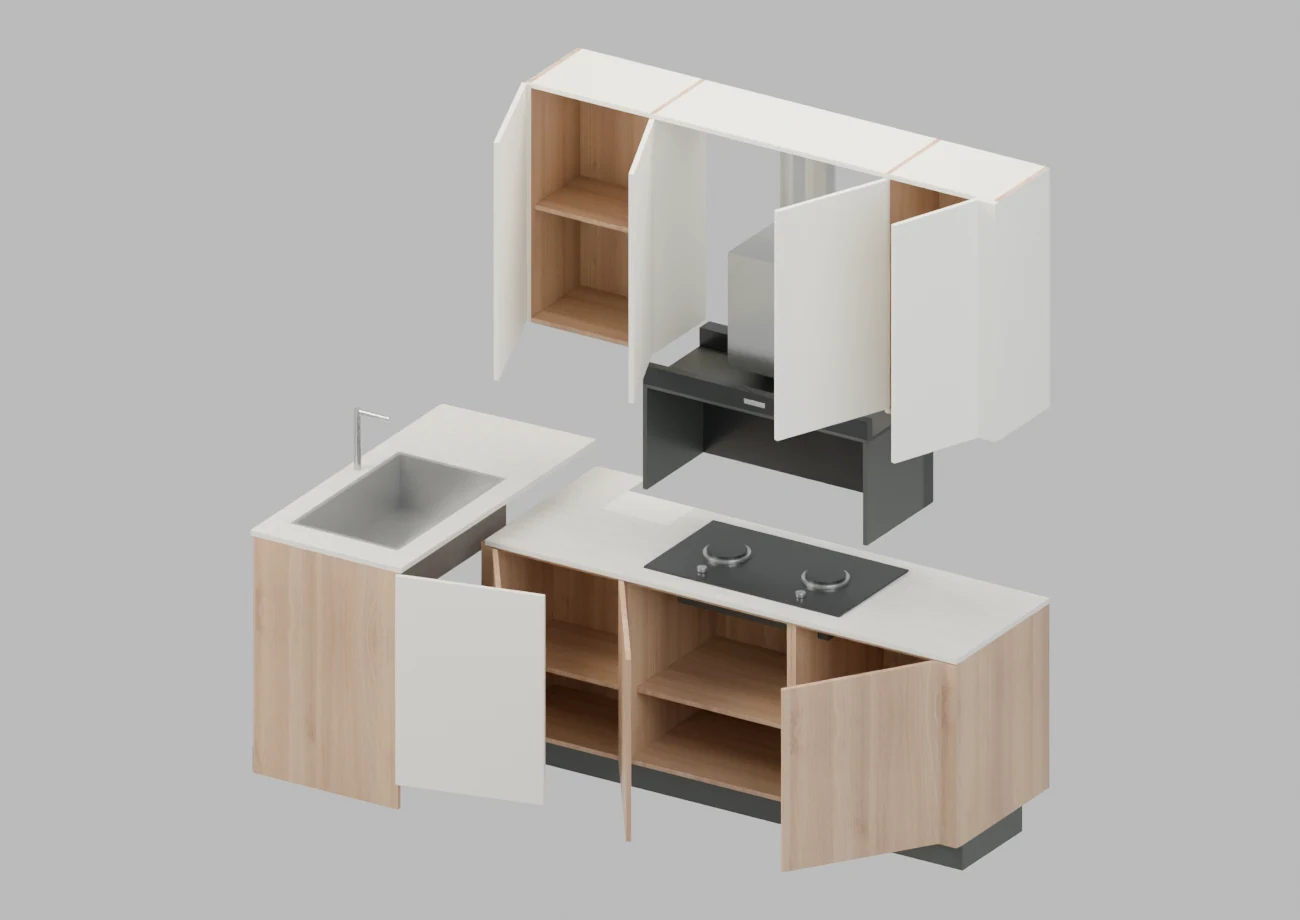
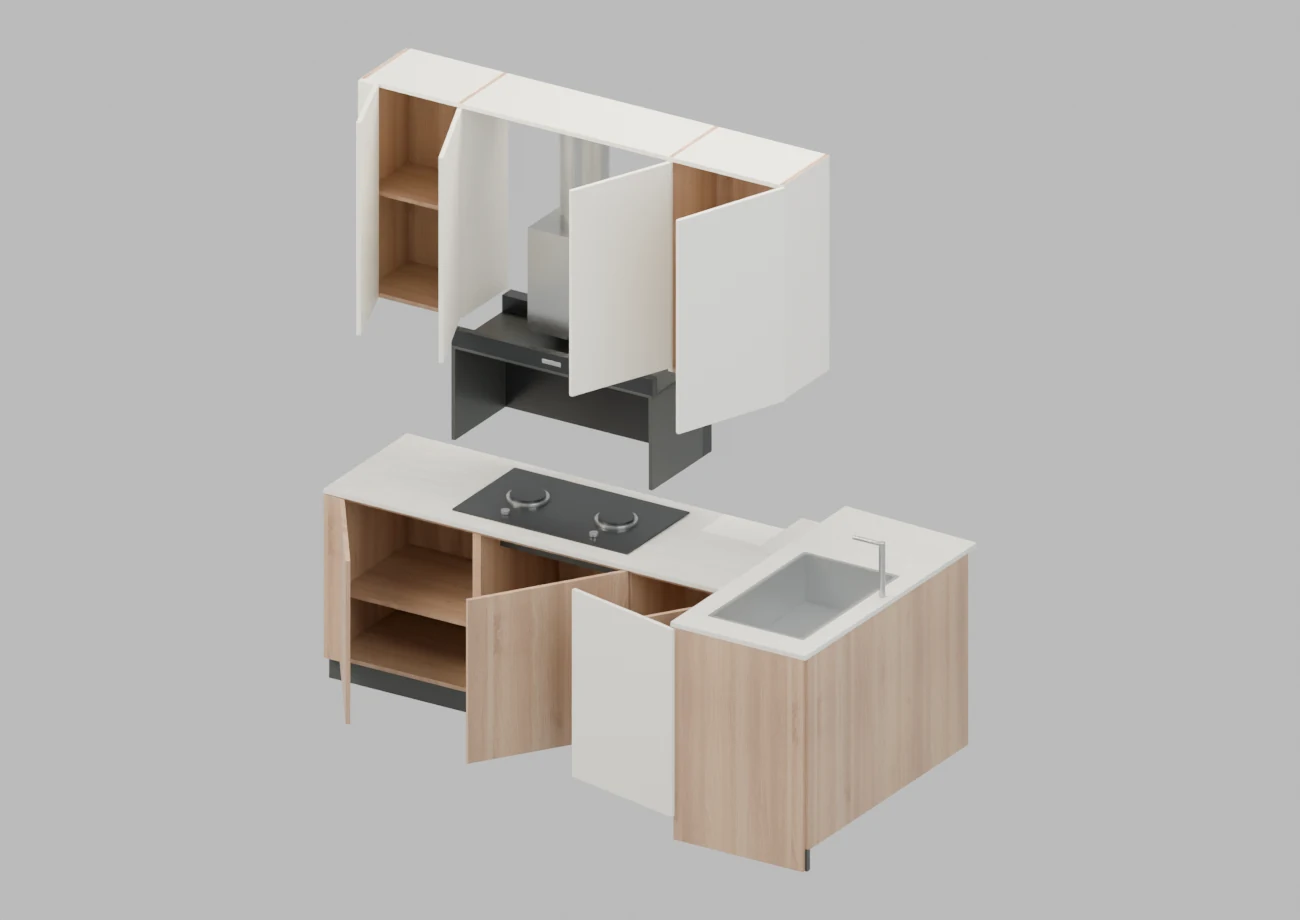
Publish finish studies and verified cabinet proportions and orientation

Changed region(s): [[0.1846, 0.0304, 0.8308, 0.9435]]

diff --git a/cabinet-study/assets/gallery.js b/cabinet-study/assets/gallery.js
@@ -2,18 +2,35 @@
   'use strict';
   const groups=[
     ['entry','玄关','鞋柜与换鞋座','换鞋座下方保留开放鞋位，右侧双门内分层储鞋。石材随手台下设两只薄抽。','1800 × 350 × 2500（含墙段）'],
-    ['media','客餐厅','电视与餐边组合柜','落地矮柜可见面全用南非柚木。中间为透明玻璃展示列；餐边柜以奶油白为主，石材台面上方两扇上翻门用南非柚木。','4300 × 400 × 2500'],
-    ['kitchen','厨房','转角操作柜','水槽台与灶台分高低，转角避开凸出构件。灶下三扇门用南非柚木；吊柜门面及外露封板用奶油白。','2480 × 1265 × 2400（转角外包）'],
-    ['tower','厨房','电器塔与冰箱排','以高柜替换原低返台，洗碗机和微蒸烤独立承托。现场若与门轨相碰，或必须与鞋柜齐端，则不采用这版。','1340 × 648 × 2500（组合占位）'],
+    ['media','客餐厅','电视与餐边组合柜','电视区 2350，展示与餐边共 1950。右端上、中、下三层都收圆；下层沿用 R50，上、中层暂按 R50。主吊柜深 350、中层上翻深 300、下柜深 400 mm。','4300 × 400 × 2500'],
+    ['kitchen','厨房','转角操作柜','从操作区正对烟机，水盆在右侧。水槽台高于灶台，转角避柱；灶下三扇木门，吊柜及外露封板奶油白。','2480 × 1265 × 2400（转角外包）'],
+    ['tower','厨房','电器塔与冰箱排','以高柜替换原低返台；从操作区正对烟机，电器高柜排在左、水盆在右。若与门轨相碰或必须与鞋柜齐端，则不采用这版。','1340 × 648 × 2500（组合占位）'],
     ['arch','过道','拱形展示柜','仅在原框确认可用时放置，不拆墙叠柜。右侧木抽外露，上下玻璃门分别开启。','1240 × 220 × 2500'],
     ['utility','过道','三门杂物柜','原框与墙垛重合，须先确认有可用净空且不挡房门；否则另选柜位。左侧放长物，右侧分六格。','820 × 245 × 2500'],
     ['wardrobe','主卧','双列衣柜','左列长挂配两只独立底抽；右列短挂、叠放和底仓分开，顶柜收纳换季物品。','1750 × 600 × 2500'],
     ['vanity','卫浴','双抽洗面盆柜','两只抽面沿已选效果试用南非柚木，上抽避让排水。抽屉拉出会进入卫生间房门的开启范围，两者应错时开启。','800 × 500 × 850'],
     ['laundry','家政阳台','高低家政柜','机器上方留低位开放格，盆上柜抬高后退。整柜依现场窗扇、柱位、管卡和机器进排水复尺后确定。','1150 × 900 × 2500']
   ];
-  const caps={hero:'外观效果',axo:'轴测视图',open:'柜门与抽屉开启',model:'三维结构示意'};
+  const caps={hero:'空间日景',night:'空间夜景',axo:'柜体轴测',open:'柜门与抽屉开启',model:'互动三维模型'};
+  const boards={
+    entry:'奶油白门抽；南非柚木柜内、洞洞板及换鞋坐面，随手台为石材。',
+    media:'电视矮柜可见面及餐边两扇上翻门用南非柚木；餐边其余门抽奶油白，展示列上玻璃、下木门。',
+    kitchen:'灶下三门用南非柚木；吊柜门面、外露封板及盆下检修门奶油白。柜内木纹，台面石材。',
+    tower:'塔柜门抽与顶柜外露封面奶油白；箱体内侧、承托层板南非柚木。电器外观为占位。',
+    arch:'拱框、背面和封闭区门内外奶油白，层板及外露双抽南非柚木；上下玻璃分开。',
+    utility:'三扇门内外及外露封板奶油白，柜内与分层板南非柚木。',
+    wardrobe:'门板、双底抽面奶油白；柜内、层板及可见木纹为南非柚木。',
+    vanity:'双抽面沿已选效果试用南非柚木，台面石材、盆体白色。',
+    laundry:'高柜与检修门奶油白，低开放格与柜内南非柚木，清洗台为石材。'
+  };
+  const finish=id=>{
+    const wet=id==='vanity', kitchen=id==='kitchen'||id==='tower', outside=id==='laundry';
+    return {wall:wet||kitchen?'奶芙米墙砖 · 750 × 1500 mm':outside?'中性参照面，阳台墙面做法未定':'菱花白乳胶漆 · OW025-4',
+      floor:wet?'奶芙米地砖 · 750 × 1500 mm':'蜜杏木纹砖 · 600 × 1200 mm',
+      phrase:wet?'奶芙米墙地与木色双抽':kitchen?'奶芙米墙砖与蜜杏木纹地砖':outside?'蜜杏木纹地砖与家政柜':'菱花白墙与蜜杏木纹地砖'};
+  };
   const $=s=>document.querySelector(s), choose=$('#choose'), photo=$('#photo'), host=$('#model'), stat=$('#status');
-  let id='media',mode='hero',open=false,serial=0,activeViewer=null,moduleReady;
+  let id='media',mode='hero',open=false,withRoom=true,serial=0,activeViewer=null,moduleReady;
   groups.forEach(([key,,name],i)=>{
     const b=document.createElement('button'); b.type='button'; b.dataset.id=key;
     const n=document.createElement('span'); n.textContent=String(i+1).padStart(2,'0');
@@ -24,7 +41,7 @@
   const setStatus=(s='')=>{stat.textContent=s;stat.hidden=!s};
   function loadScript(url){return new Promise((ok,fail)=>{const s=document.createElement('script');s.src=url;s.onload=ok;s.onerror=()=>fail(Error('加载失败'));document.head.appendChild(s)})}
   function prepareViewer(){
-    if(!moduleReady)moduleReady=loadScript('assets/three.min.js').then(()=>loadScript('assets/OrbitControls.js')).then(()=>import('./viewer.mjs')).catch(e=>{moduleReady=null;throw e});
+    if(!moduleReady)moduleReady=loadScript('assets/three.min.js').then(()=>loadScript('assets/OrbitControls.js')).then(()=>import('./viewer.mjs?v=4')).catch(e=>{moduleReady=null;throw e});
     return moduleReady;
   }
   const models=new Map();
@@ -32,28 +49,31 @@
     host.hidden=false;photo.hidden=true;$('#tools').hidden=false;
     setStatus('正在加载三维模型…');
     try {
-      const [lib,data]=await Promise.all([prepareViewer(),models.get(id)||fetch('assets/'+id+'.json').then(r=>{if(!r.ok)throw Error();return r.json()})]);
+      const [lib,data]=await Promise.all([prepareViewer(),models.get(id)||fetch('assets/'+id+'.json'+(['media','kitchen'].includes(id)?'?v=4':'')).then(r=>{if(!r.ok)throw Error();return r.json()})]);
       if(ticket!==serial)return;
       models.set(id,data);
       if(!activeViewer)activeViewer=lib.viewer(host.querySelector('canvas'));
-      activeViewer.show(data,open);setStatus();$('#tools').hidden=false;
+      activeViewer.show(data,open,id,withRoom);setStatus();$('#tools').hidden=false;
     } catch(e) {
       if(ticket!==serial)return;
-      host.hidden=true;photo.src='assets/'+id+'-axo.webp';photo.alt='三维加载失败，显示该柜轴测图';photo.hidden=false;$('#tools').hidden=true;
+      host.hidden=true;photo.src='assets/'+id+'-axo.webp?v=4';photo.alt='三维加载失败，显示该柜轴测图';photo.hidden=false;$('#tools').hidden=true;
       setStatus('此设备暂时不能显示三维模型，已改为轴测图。');
     }
   }
   function update(){
     const g=groups.find(x=>x[0]===id),ticket=++serial;
-    choose.value=id;$('#zone').textContent=g[1];$('#title').textContent=g[2];$('#detail').textContent=g[3];$('#dim').textContent=g[4];
+    const finishes=finish(id);
+    choose.value=id;$('#zone').textContent=g[1];$('#title').textContent=g[2];$('#detail').textContent=g[3];$('#dim').textContent=g[4];$('#mediaWidths').hidden=id!=='media';
+    $('#wallFinish').textContent=finishes.wall;$('#floorFinish').textContent=finishes.floor;$('#boardFinish').textContent=boards[id];
+    $('#room').textContent=withRoom?'隐藏墙地':'显示墙地';$('#room').setAttribute('aria-pressed',String(withRoom));
     $('#counter').textContent=String(groups.indexOf(g)+1).padStart(2,'0')+' / 09';
     document.querySelectorAll('[data-id]').forEach(b=>b.setAttribute('aria-current',b.dataset.id===id?'true':'false'));
     document.querySelectorAll('[data-mode]').forEach(b=>b.setAttribute('aria-pressed',String(b.dataset.mode===mode)));
-    $('#caption').textContent=g[2]+' / '+caps[mode];$('#original').hidden=mode==='model';$('#tools').hidden=mode!=='model';
+    $('#caption').textContent=g[2]+' / '+caps[mode]+(['hero','night'].includes(mode)?'：'+finishes.phrase:'')+(mode==='night'?'（与日景同机位）':'');$('#original').hidden=mode==='model';$('#tools').hidden=mode!=='model';
     $('#toggle').setAttribute('aria-pressed',String(open));$('#toggle').textContent=open?'关闭柜门':'打开柜门';
     host.hidden=mode!=='model';photo.hidden=mode==='model';
     if(mode==='model'){showModel(ticket);return}
-    setStatus();const file='assets/'+id+'-'+mode+'.webp';$('#original').href=file;photo.alt=g[2]+'的'+caps[mode];
+    setStatus();const file='assets/'+id+'-'+mode+'.webp'+(['media','kitchen'].includes(id)||mode==='hero'||mode==='night'?'?v=4':'');$('#original').href=file;photo.alt=$('#caption').textContent;
     photo.onerror=()=>{if(ticket===serial)setStatus('图片加载失败，请重试或切换其他视图。')};photo.src=file;
   }
   function go(key,view){
@@ -67,8 +87,10 @@
     if(id!==next||mode!==nextMode)open=false;id=next;mode=nextMode;update();
   }
   choose.onchange=()=>go(choose.value,mode);
+  $('#roundDetail').ontoggle=()=>{if($('#roundDetail').open&&!$('#roundPhoto').getAttribute('src'))$('#roundPhoto').src='assets/media-right.webp?v=4'};
   document.querySelectorAll('[data-mode]').forEach(b=>b.onclick=()=>go(id,b.dataset.mode));
   $('#toggle').onclick=()=>{if(!activeViewer||!models.has(id))return;open=!open;activeViewer.state(open);$('#toggle').setAttribute('aria-pressed',String(open));$('#toggle').textContent=open?'关闭柜门':'打开柜门';$('#caption').textContent=$('#title').textContent+' / '+(open?'开启模型':'闭合模型')};
-  $('#left').onclick=()=>activeViewer?.rotate(-.25,0);$('#right').onclick=()=>activeViewer?.rotate(.25,0);$('#reset').onclick=()=>activeViewer?.reset();
+  $('#room').onclick=()=>{if(!activeViewer||!models.has(id))return;withRoom=!withRoom;activeViewer.background(withRoom);$('#room').textContent=withRoom?'隐藏墙地':'显示墙地';$('#room').setAttribute('aria-pressed',String(withRoom))};
+  $('#front').onclick=()=>activeViewer?.front();$('#left').onclick=()=>activeViewer?.rotate(-.25,0);$('#right').onclick=()=>activeViewer?.rotate(.25,0);$('#reset').onclick=()=>activeViewer?.reset();
   window.addEventListener('hashchange',fromHash);fromHash();
 })();

diff --git a/cabinet-study/assets/gallery.css b/cabinet-study/assets/gallery.css
@@ -2,3 +2,7 @@
 @media(prefers-color-scheme:dark){:root{--bg:#1e2420;--fg:#f1f2e9;--muted:#c1c8bd;--line:#505950;--sel:#344839;--accent:#c0d6bd;--panel:#272f29;--stage:#3a4139}}
 *{box-sizing:border-box}body{margin:0;background:var(--bg);color:var(--fg)}.mast,main,footer{width:min(1440px,calc(100% - clamp(28px,7vw,112px)));margin-inline:auto}button,select{font:inherit;color:inherit}.mast{display:flex;align-items:baseline;justify-content:space-between;padding:24px 0 19px;border-bottom:2px solid var(--fg)}.mast h1{font-size:clamp(21px,2.2vw,33px);margin:0;letter-spacing:.04em}.mast span,.location,#counter,figcaption,footer,#tools span{color:var(--muted);font-size:13px;font-variant-numeric:tabular-nums}main{display:grid;grid-template-columns:minmax(172px,21%) minmax(0,1fr);gap:clamp(22px,4vw,68px);padding:32px 0 24px}.mobile{display:none}aside h2,h3{font-size:13px;letter-spacing:.06em;color:var(--muted);margin:5px 0 16px}aside button{display:flex;width:100%;gap:12px;align-items:center;border:0;border-left:3px solid transparent;padding:10px 8px;min-height:47px;background:none;text-align:left;cursor:pointer}aside button strong{font-size:15px;font-weight:510}aside button span{font-size:12px;color:var(--muted);font-variant-numeric:tabular-nums}button[aria-pressed=true],aside button[aria-current=true]{background:var(--sel);color:var(--accent)}aside button[aria-current=true]{border-left-color:var(--accent)}.head{display:flex;justify-content:space-between;align-items:end;gap:8px}.location{margin:0 0 6px}.head h2{font-size:clamp(24px,2.8vw,40px);line-height:1.25;margin:0;font-weight:640;letter-spacing:-.035em}#counter{white-space:nowrap;padding-bottom:4px}.modes,.model-buttons{display:flex;gap:5px;flex-wrap:wrap}.modes{margin:18px 0 10px}.modes button,#tools button{min-height:44px;padding:7px 16px;border:1px solid transparent;background:none;cursor:pointer;font-size:14px}.modes button[aria-pressed=true],#tools button[aria-pressed=true]{background:var(--sel);color:var(--accent);box-shadow:inset 0 -2px var(--accent)}button:hover{background:var(--panel)}button:active{opacity:.8}figure{margin:0}.stage{position:relative;aspect-ratio:1300/920;background:var(--stage);overflow:hidden;isolation:isolate}.stage img,#model,#model canvas{width:100%;height:100%;display:block}.stage img{object-fit:contain}.stage #model[hidden],[hidden]{display:none!important}#model{position:absolute;inset:0;background:var(--stage)}#model canvas{touch-action:none}#status{position:absolute;inset:auto 0 0;margin:0;padding:12px;text-align:center;background:var(--bg);color:var(--fg);font-size:14px}#tools{display:flex;align-items:center;gap:8px 14px;justify-content:space-between;flex-wrap:wrap;margin-top:8px}#tools button{border-color:var(--line);padding-inline:11px}figcaption{display:flex;justify-content:space-between;align-items:center;gap:12px;padding:3px 0 9px;min-height:44px;border-bottom:1px solid var(--line)}a{color:var(--accent)}figcaption a{display:inline-flex;align-items:center;min-height:44px;text-decoration:underline;text-underline-offset:3px}.details{display:grid;grid-template-columns:1.7fr 1fr;gap:24px;padding-top:20px}.details h3{margin:0 0 7px}.details p{margin:0;line-height:1.65;font-size:16px}#dim{font-variant-numeric:tabular-nums}footer{border-top:1px solid var(--line);padding:17px 0 27px;line-height:1.6}.skip{position:absolute;top:0;left:-500px;padding:12px;background:var(--bg);z-index:2}.skip:focus{left:5px}button:focus-visible,a:focus-visible,select:focus-visible,canvas:focus-visible{outline:3px solid var(--accent);outline-offset:2px}article:focus:not(:focus-visible){outline:0}
 @media(max-width:767px){main{display:block;padding:15px 0 19px}.mast{padding:16px 0 12px}.mobile{display:block}aside h2,aside nav{display:none}aside{display:flex;gap:12px;align-items:center;margin-bottom:19px}aside label{font-size:13px;color:var(--muted)}select{min-height:44px;border:1px solid var(--line);border-radius:0;background:var(--panel);padding:5px 30px 5px 10px;flex:1;min-width:0}.head h2{font-size:clamp(22px,6vw,31px)}.modes{margin:11px 0 8px;display:grid;grid-template-columns:repeat(4,minmax(0,1fr));gap:0}.modes button{padding-inline:2px;white-space:nowrap}.details{grid-template-columns:1fr;gap:13px;padding-top:14px}.details p{font-size:15px}#tools span{font-size:12px}}
+.finishes{border-top:1px solid var(--line);margin-top:20px;padding-top:17px}.finishes h3{margin:0 0 9px}.finishes dl{display:grid;grid-template-columns:1fr 1fr 1.7fr;gap:16px;margin:0}.finishes dt{font-size:13px;color:var(--muted);margin:0 0 4px}.finishes dd{font-size:15px;line-height:1.55;margin:0}figcaption a{white-space:nowrap}
+.widths{padding:17px 0 15px;border-bottom:1px solid var(--line);font-variant-numeric:tabular-nums}.width-head{display:flex;justify-content:space-between;gap:10px;color:var(--muted);font-size:13px}.width-head h3{margin:0}.width-total{display:grid;grid-template-columns:2350fr 1950fr;margin:12px 0 3px}.width-total span{position:relative;display:block;padding:0 3px 6px;text-align:center;font-size:clamp(12px,1.4vw,16px);border-bottom:1px solid var(--muted)}.width-total span::before,.width-total span:last-child::after{content:'';position:absolute;bottom:0;left:0;width:1px;height:5px;background:var(--muted)}.width-total span:last-child::after{left:auto;right:0}.width-band{display:grid;grid-template-columns:2350fr 300fr 1650fr;height:10px}.width-band i:nth-child(1){background:#ab8669}.width-band i:nth-child(2){background:#a3b9b9}.width-band i:nth-child(3){background:#d9d2bd}.widths p{font-size:13px;line-height:1.6;color:var(--muted);margin:7px 0 0}.widths p strong{color:var(--fg);font-weight:550}
+@media(max-width:767px){main .modes{grid-template-columns:repeat(5,minmax(0,1fr))}.finishes dl{grid-template-columns:1fr;gap:9px}.finishes dl>div{display:grid;grid-template-columns:5.4em 1fr;gap:6px}.finishes dt{padding-top:2px}.finishes dd{font-size:14px}}
+#roundDetail{margin-top:5px}#roundDetail summary{display:list-item;min-height:44px;padding:11px 1px;color:var(--accent);cursor:pointer;font-size:14px}#roundDetail summary:focus-visible{outline:3px solid var(--accent)}#roundDetail p{margin:0 0 10px}#roundPhoto{display:block;width:100%;max-width:950px;height:auto}

diff --git a/cabinet-study/index.html b/cabinet-study/index.html
@@ -2,9 +2,9 @@
 <html lang="zh-CN">
 <head>
 <meta charset="utf-8"><meta name="viewport" content="width=device-width, initial-scale=1">
-<meta name="color-scheme" content="light dark"><meta name="description" content="九组定制柜的效果图、开柜细节与可旋转三维模型。">
+<meta name="color-scheme" content="light dark"><meta name="description" content="九组定制柜与墙地材质的日间、夜间效果，开柜细节与可旋转模型。">
 <title>全屋柜体图册</title>
-<link rel="stylesheet" href="assets/gallery.css"><link rel="preload" as="image" href="assets/media-hero.webp">
+<link rel="stylesheet" href="assets/gallery.css?v=4"><link rel="preload" as="image" href="assets/media-hero.webp?v=4">
 </head>
 <body>
 <a class="skip" href="#display">跳到当前柜体</a>
@@ -17,24 +17,32 @@
 <article id="display" tabindex="-1">
  <div class="head"><div><p class="location" id="zone">客餐厅</p><h2 id="title">电视与餐边组合柜</h2></div><span id="counter" aria-hidden="true">02 / 09</span></div>
  <div class="modes" aria-label="选择查看方式">
-  <button type="button" data-mode="hero" aria-pressed="true">效果图</button><button type="button" data-mode="axo" aria-pressed="false">轴测图</button><button type="button" data-mode="open" aria-pressed="false">开柜图</button><button type="button" data-mode="model" aria-pressed="false">旋转模型</button>
+  <button type="button" data-mode="hero" aria-pressed="true">空间日景</button><button type="button" data-mode="night" aria-pressed="false">空间夜景</button><button type="button" data-mode="axo" aria-pressed="false">轴测图</button><button type="button" data-mode="open" aria-pressed="false">开柜图</button><button type="button" data-mode="model" aria-pressed="false">旋转模型</button>
  </div>
  <figure>
   <div class="stage">
-   <img id="photo" width="1300" height="920" fetchpriority="high" src="assets/media-hero.webp" alt="电视与餐边组合柜的外观效果">
+   <img id="photo" width="1300" height="920" fetchpriority="high" src="assets/media-hero.webp?v=4" alt="电视与餐边组合柜、菱花白墙与蜜杏地砖的日间效果">
    <div id="model" hidden><canvas tabindex="0" aria-label="柜体三维模型，按左右方向键旋转，上下方向键改变俯仰"></canvas></div>
    <p id="status" hidden role="status"></p>
   </div>
   <div id="tools" hidden aria-label="模型操作"><div class="model-buttons">
-    <button type="button" id="toggle" aria-pressed="false">打开柜门</button><button type="button" id="left">左转</button><button type="button" id="right">右转</button><button type="button" id="reset">复位</button>
+    <button type="button" id="toggle" aria-pressed="false">打开柜门</button><button type="button" id="room" aria-pressed="true">隐藏墙地</button><button type="button" id="front">正视</button><button type="button" id="left">左转</button><button type="button" id="right">右转</button><button type="button" id="reset">复位</button>
   </div><span>拖动旋转，双指或滚轮缩放；材质为电子近似</span></div>
-  <figcaption><span id="caption">外观效果</span><a id="original" href="assets/media-hero.webp" target="_blank" rel="noopener">查看大图 ↗</a></figcaption>
+  <figcaption><span id="caption">空间日景</span><a id="original" href="assets/media-hero.webp?v=4" target="_blank" rel="noopener">查看大图 ↗</a></figcaption>
  </figure>
+ <section id="mediaWidths" class="widths" aria-label="组合柜正视宽度比例">
+  <div class="width-head"><h3>正视宽度比例</h3><span>总宽 4300 mm</span></div>
+  <div class="width-total"><span>左 · 电视区 <b>2350</b></span><span>右 · 展示与餐边 <b>1950</b></span></div>
+  <div class="width-band" role="img" aria-label="同尺三段，自左至右为电视区2350、展示列300、餐边柜1650毫米"><i></i><i></i><i></i></div>
+  <p>右侧 1950 内暂按 <strong>展示列 300 ＋ 餐边柜 1650</strong> 试分，三段同尺。</p>
+  <details id="roundDetail"><summary>查看右端三层圆角详图</summary><p>下柜深 400、主吊柜深 350、中层上翻深 300 mm。右端三层都做圆角：下层沿原图 R50，上、中层先按 R50 试排。</p><a href="assets/media-right.webp?v=4" target="_blank" rel="noopener"><img id="roundPhoto" loading="lazy" alt="餐边柜右端三层收圆详图；点击查看大图"></a></details>
+ </section>
  <div class="details"><section><h3>设计要点</h3><p id="detail"></p></section><section><h3 id="dimlabel">模型外包 · 毫米</h3><p id="dim"></p></section></div>
+ <section class="finishes"><h3>本组材质</h3><dl><div><dt>墙面</dt><dd id="wallFinish"></dd></div><div><dt>地面</dt><dd id="floorFinish"></dd></div><div><dt>门抽与柜体</dt><dd id="boardFinish"></dd></div></dl></section>
 </article>
 </main>
-<footer><p><strong>饰面分配</strong>　华富立 10447EBH 奶油白为主要门抽饰面，10034Y06 南非柚木用于柜内与层板。电视矮柜可见面、餐边两扇上翻门、灶下三门及拱形柜双抽用南非柚木；盆柜双抽面沿已选效果试用同款。厨房上柜外露封板用奶油白。</p><p>实际颜色以同工艺板样为准。效果与三维模型用于查看方案，不作为生产下料尺寸。</p></footer>
+<footer><p><strong>选材</strong>　华富立 10447EBH 奶油白、10034Y06 南非柚木；萨米特蜜杏 SF-WI1U1260805X、奶芙米 SF-V157509-0822X；立邦菱花白 OW025-4。</p><p>墙地仅为局部搭配示意，不代表整屋布局、排砖或下料图。色彩和纹理由电子样展示，以同工艺实样为准。</p></footer>
 <noscript>启用 JavaScript 以切换柜体和视角。</noscript>
-<script src="assets/gallery.js" defer></script>
+<script src="assets/gallery.js?v=4" defer></script>
 </body>
 </html>
